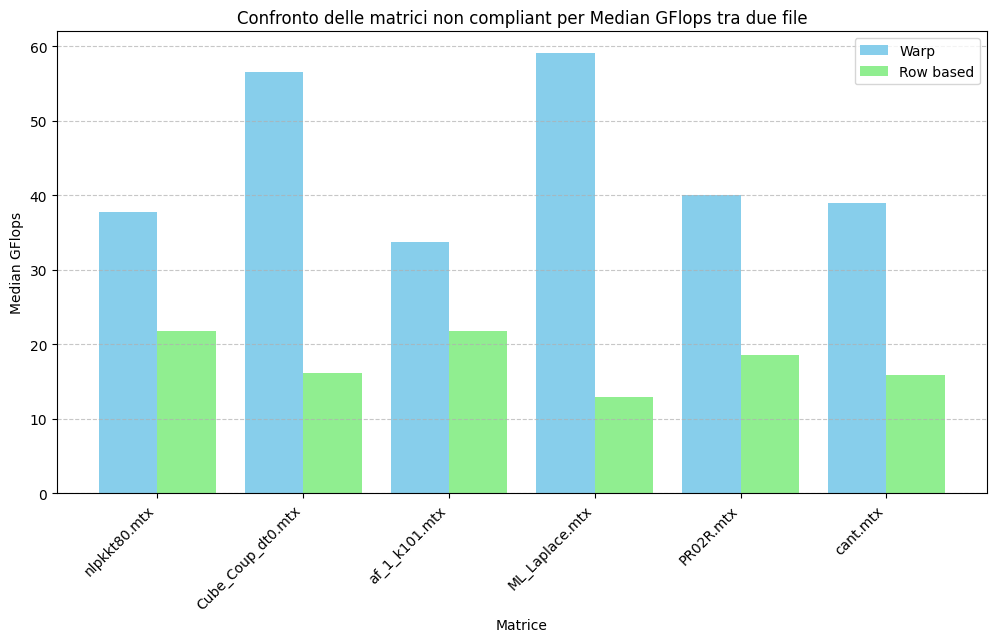
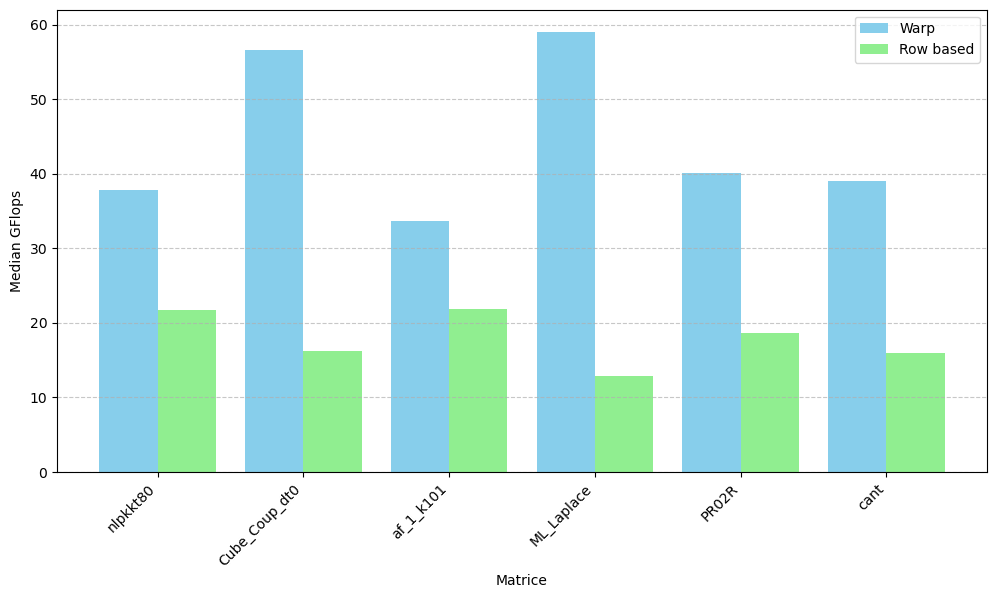
nuovi grafici

diff --git a/results/graph_builder_CSR_compare.py b/results/graph_builder_CSR_compare.py
@@ -2,7 +2,7 @@ import pandas as pd
 import matplotlib.pyplot as plt
 import os
 
-def compare_matrices_non_compliant(file_path1, file_path2, output_path):
+def compare_matrices(file_path1, file_path2, output_path):
     # Carica il primo file CSV
     df1 = pd.read_csv(file_path1)
 
@@ -10,11 +10,11 @@ def compare_matrices_non_compliant(file_path1, file_path2, output_path):
     df1['avg_nnz_per_row'] = df1['NZ'] / df1['M']
     df1['density'] = df1['NZ'] / (df1['M'] * df1['N'])
 
-    # Filtra le matrici che non rispettano la condizione
-    df1_non_compliant = df1[(df1['avg_nnz_per_row'] >= 25) & (df1['density'] <= 1.5e-3)].copy()
+    # Filtra le matrici secondo la condizione specificata e fai una copia esplicita
+    df1_filtered = df1[(df1['avg_nnz_per_row'] < 25) | (df1['density'] > 1.5e-3)].copy()
 
     # Calcola la grandezza della matrice
-    df1_non_compliant.loc[:, 'Size'] = df1_non_compliant['NZ'] / (df1_non_compliant['M'] * df1_non_compliant['N'])
+    df1_filtered.loc[:, 'Size'] = df1_filtered['NZ'] / (df1_filtered['M'] * df1_filtered['N'])
 
     # Carica il secondo file CSV
     df2 = pd.read_csv(file_path2)
@@ -23,46 +23,45 @@ def compare_matrices_non_compliant(file_path1, file_path2, output_path):
     df2['avg_nnz_per_row'] = df2['NZ'] / df2['M']
     df2['density'] = df2['NZ'] / (df2['M'] * df2['N'])
 
-    # Filtra le matrici che non rispettano la condizione
-    df2_non_compliant = df2[(df2['avg_nnz_per_row'] >= 25) & (df2['density'] <= 1.5e-3)].copy()
+    # Filtra le matrici secondo la condizione specificata e fai una copia esplicita
+    df2_filtered = df2[(df2['avg_nnz_per_row'] < 25) | (df2['density'] > 1.5e-3)].copy()
 
     # Calcola la grandezza della matrice
-    df2_non_compliant.loc[:, 'Size'] = df2_non_compliant['NZ'] / (df2_non_compliant['M'] * df2_non_compliant['N'])
+    df2_filtered.loc[:, 'Size'] = df2_filtered['NZ'] / (df2_filtered['M'] * df2_filtered['N'])
 
     # Ordina i dati per grandezza della matrice
-    df1_non_compliant_sorted = df1_non_compliant.sort_values(by='Size')
-    df2_non_compliant_sorted = df2_non_compliant.sort_values(by='Size')
+    df1_sorted = df1_filtered.sort_values(by='Size')
+    df2_sorted = df2_filtered.sort_values(by='Size')
 
     # Seleziona solo le matrici comuni tra i due file
-    common_matrices = set(df1_non_compliant_sorted['Matrix']).intersection(set(df2_non_compliant_sorted['Matrix']))
+    common_matrices = set(df1_sorted['Matrix']).intersection(set(df2_sorted['Matrix']))
 
     # Filtra entrambi i DataFrame per contenere solo le matrici comuni
-    df1_non_compliant_common = df1_non_compliant_sorted[df1_non_compliant_sorted['Matrix'].isin(common_matrices)]
-    df2_non_compliant_common = df2_non_compliant_sorted[df2_non_compliant_sorted['Matrix'].isin(common_matrices)]
+    df1_common = df1_sorted[df1_sorted['Matrix'].isin(common_matrices)]
+    df2_common = df2_sorted[df2_sorted['Matrix'].isin(common_matrices)]
 
     # Ordina per grandezza della matrice
-    df1_non_compliant_common = df1_non_compliant_common.sort_values(by='Size')
-    df2_non_compliant_common = df2_non_compliant_common.sort_values(by='Size')
+    df1_common = df1_common.sort_values(by='Size')
+    df2_common = df2_common.sort_values(by='Size')
 
     # Traccia il grafico a barre per confrontare le matrici
     plt.figure(figsize=(12, 6))
 
     # Indici per posizionare le barre
-    x = range(len(df1_non_compliant_common))
+    x = range(len(df1_common))
 
     # Crea le barre per il primo file
-    plt.bar([i - 0.2 for i in x], df1_non_compliant_common['MedianGFlops'], width=0.4, label='Warp', color='skyblue')
+    plt.bar([i - 0.2 for i in x], df1_common['MedianGFlops'], width=0.4, label='Row based', color='skyblue')
 
     # Crea le barre per il secondo file
-    plt.bar([i + 0.2 for i in x], df2_non_compliant_common['MedianGFlops'], width=0.4, label='Row based', color='lightgreen')
+    plt.bar([i + 0.2 for i in x], df2_common['MedianGFlops'], width=0.4, label='Warp', color='lightgreen')
 
     # Etichetta gli assi
     plt.xlabel("Matrice")
     plt.ylabel("Median GFlops")
-    plt.title("Confronto delle matrici non compliant per Median GFlops tra due file")
 
     # Rotazione delle etichette sull'asse X per una migliore leggibilità
-    plt.xticks(x, df1_non_compliant_common['Matrix'], rotation=45, ha='right')
+    plt.xticks(x, df1_common['Matrix'].str.replace('.mtx', '', regex=False), rotation=45, ha='right')
 
     # Aggiungi la griglia per migliorare la leggibilità
     plt.grid(True, axis='y', linestyle='--', alpha=0.7)
@@ -83,5 +82,5 @@ def compare_matrices_non_compliant(file_path1, file_path2, output_path):
 # Esempio di utilizzo
 file_path1 = "performance-CSR-warp.csv"
 file_path2 = "performance-CSR.csv"
-output_path = "graphs/bigMAT-CSR-comaprison.png"
-compare_matrices_non_compliant(file_path1, file_path2, output_path)
+output_path = "graphs/littleMAT-CSR-comaprison.png"
+compare_matrices(file_path1, file_path2, output_path)
